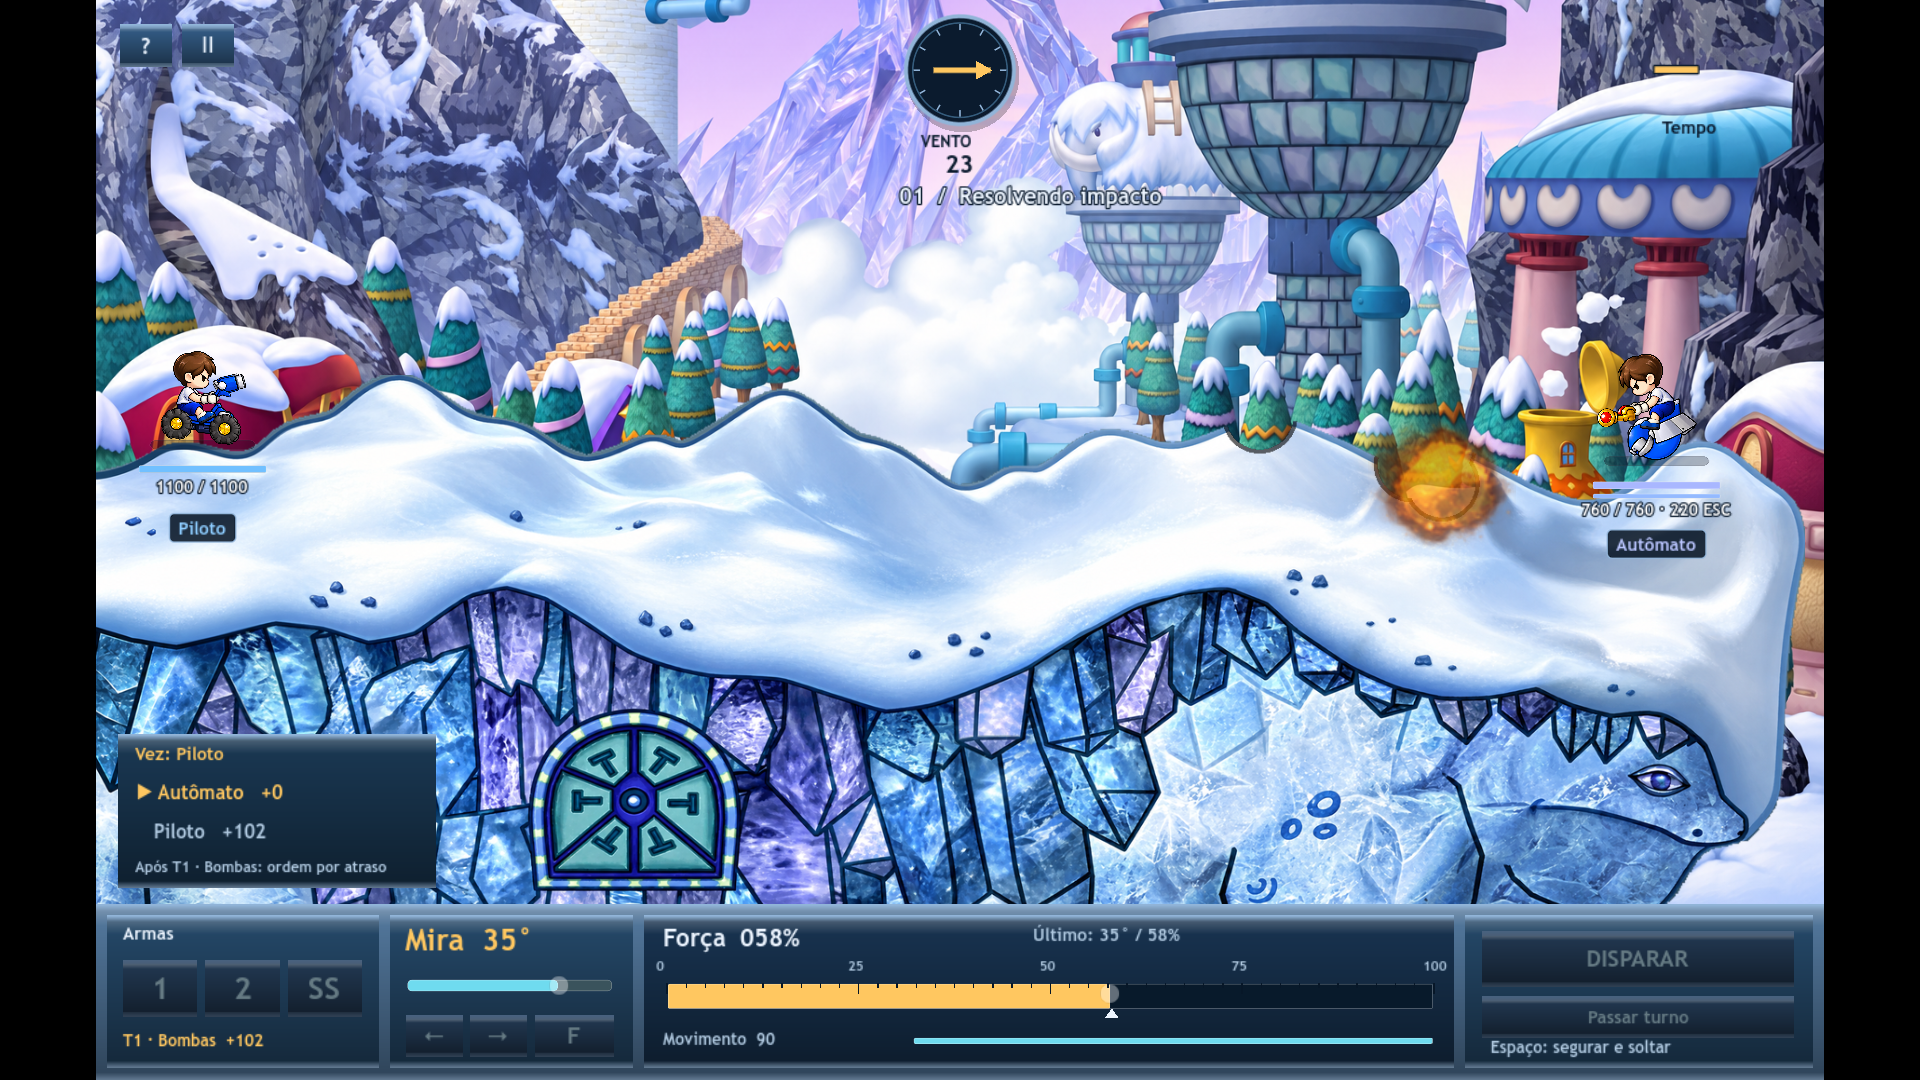
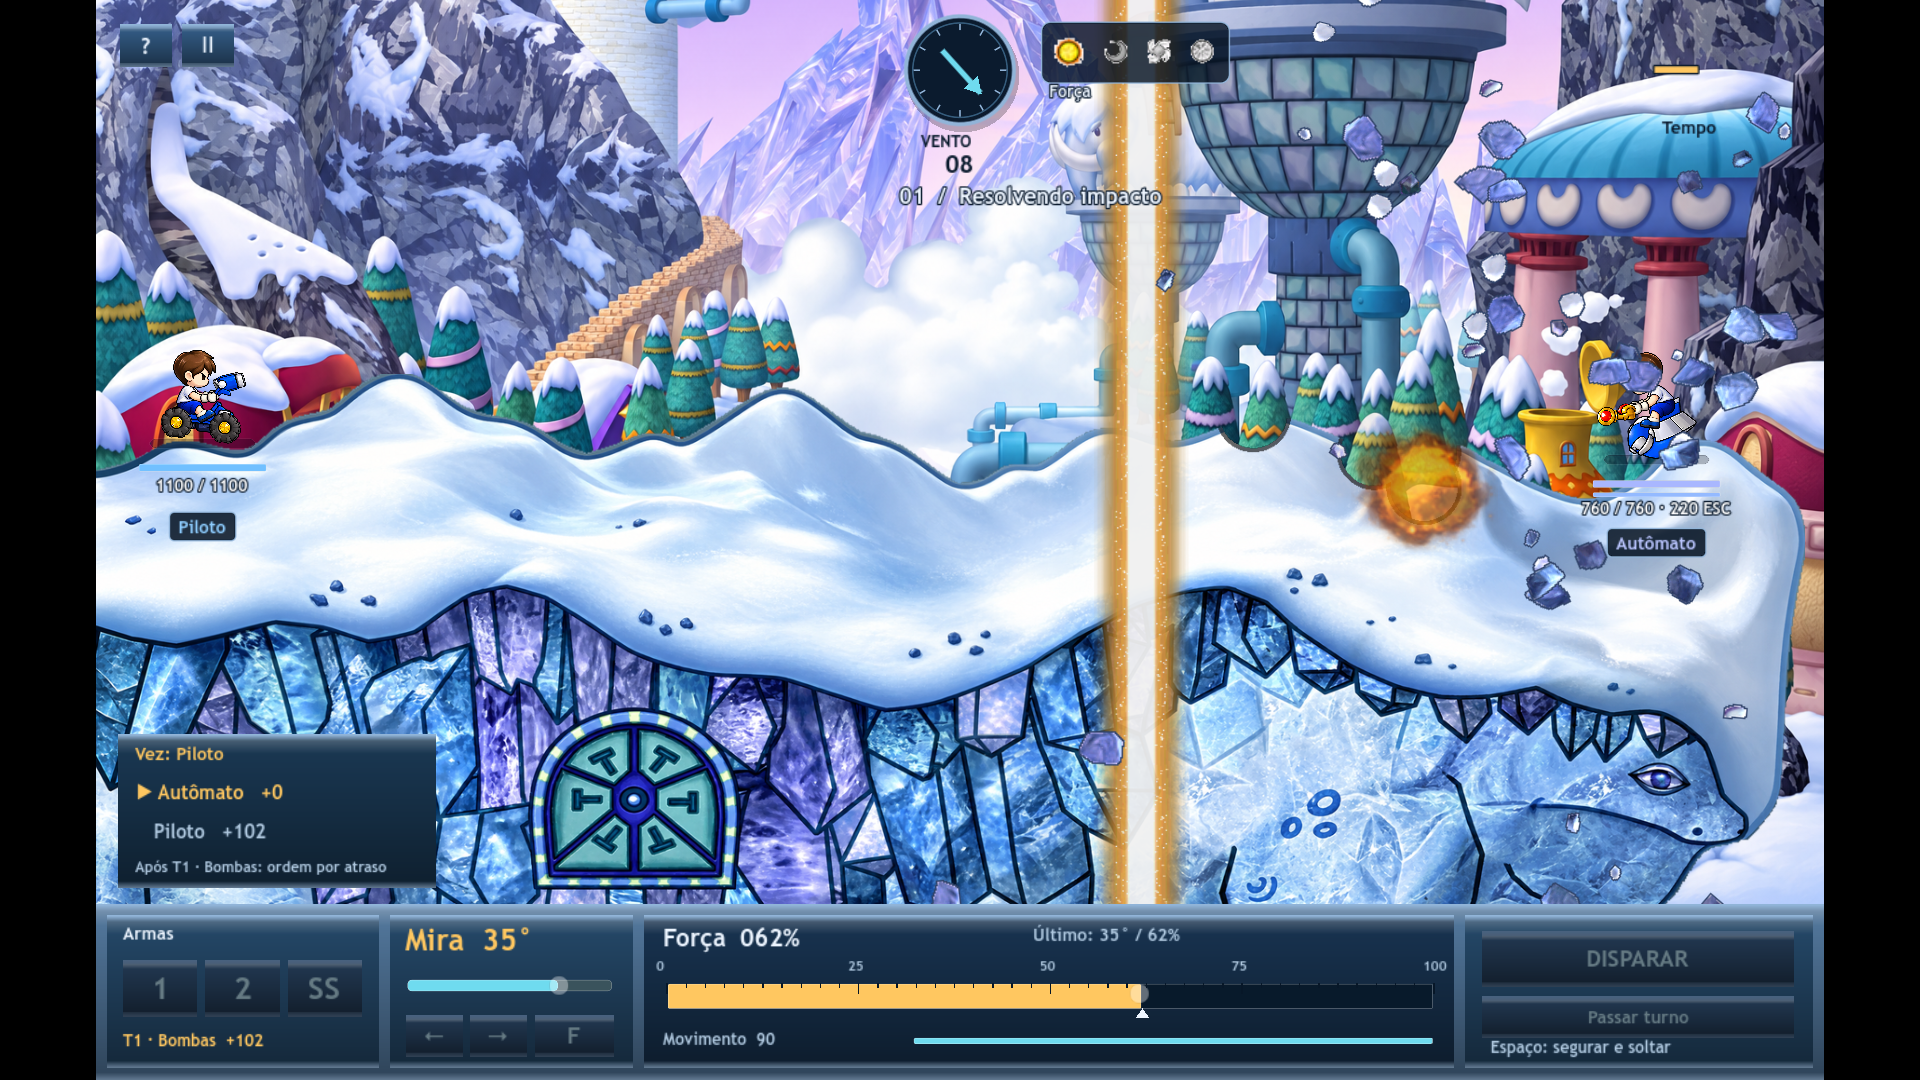
docs: 0.9.0 help, handoff and live docs for camera, wind, weather and Thor (phase E)
- Help screen explains map drag and weather; version 0.9.0
- HANDOFF/TASKS/DESIGN/README/AGENTS updated; captures refreshed
- 923 checks + 10 matches; app/ZIP re-exported, PCK validated with weather/Thor assets

diff --git a/docs/sdd/DESIGN.md b/docs/sdd/DESIGN.md
@@ -9,7 +9,9 @@
 | `scripts/battle_art.gd` | Estado visual separado, interpolação, rodas/canhão, recuo, dano, destruição, explosão e bússola |
 | `scripts/bigfoot_sprite.gd` | Atlas Bigfoot, FPS/ciclos, piloto e offsets por quadro, projéteis, nearest por CanvasTexture |
 | `scripts/terrain.gd` | Máscara sólida 640×400, células de 2 px, mapa original (alpha do foreground) ou procedural, visual HD, superfície, crateras e raycast DDA |
-| `scripts/maps.gd` | Catálogo de mapas OpenBound (Map.cs): spawns, clima, recorte e transformação para a arena fixa |
+| `scripts/maps.gd` | Catálogo de mapas OpenBound (Map.cs): spawns, clima, recorte HD e partícula, em coordenadas nativas |
+| `scripts/weather.gd` | Vento 2D, fila de clima, colunas, Thor e XP (modelo puro, copiado na previsão) |
+| `scripts/weather_art.gd` | Apresentação de colunas, Thor, feixes, ícones e partículas de chão |
 | `scripts/build_map_hd.py` | Costura blocos GPT Images do mapa, aplica a máscara original e grava manifest |
 | `scripts/combat.gd` | Parâmetros das armas, integração, colisão, dano e previsão de trajetória |
 | `scripts/match.gd` | Atores, RNG, projéteis, fases, movimento, disponibilidade, CPU e resultado |
@@ -235,3 +237,28 @@ pixels HD e escurece o anel `radius+3` por 0,4 (`Topography.CreateErosion`).
 metade, sorteados pelo `rng` da partida. `game.gd` desenha a janela do fundo
 (HD quando existir, senão `Background.png` original) e o `visual_texture` no
 `visual_rect`; grama e borda procedurais só no fallback. Câmera continua fixa.
+
+## Câmera, vento, clima e Thor 0.9
+
+Mundo nativo: `Terrain.load_map` dimensiona a grade pelo `ForegroundA` inteiro
+(1800×1800 → 900×900 células); `world_size`, `void_y/is_void`,
+`Combat.out_of_bounds` e o clamp de movimento derivam dele (procedural
+continua 640×400 / 1280×800). `first_solid_y` é calculado uma vez, como
+`FirstCollidableBlockY`. `carve` devolve as células removidas.
+
+`game.gd` mantém `camera` (canto superior esquerdo da vista 1280×670): segue
+mobile ativo → projétil lançado → impacto com fator `1/25` por quadro;
+arrastar (mouse/toque, `_unhandled_input`) liga `camera_manual` até o próximo
+`turn`/`fire`. O mundo é desenhado com `offset = tremor − camera`; barras e
+rótulos convertem para tela; setas na borda para mobiles fora da vista. O fundo
+usa uma janela 1,6:1 que desliza pela fração da câmera dentro da cobertura HD.
+
+`weather.gd` (modelo puro, copiável): pesos do preset, fila de 4, rodada = 2
+turnos, vento 2D (força/ângulo, perturbação, Wind), colunas com fusão/limpeza,
+Thor (posição, nível, XP). `match.gd`: cada projétil guarda `damage`,
+`inside`, `influenced`, `electric`, `thor`, `tornado`; `apply_weather_contact`
+roda antes de cada passo do laço comum; `tornado_step` substitui a balística
+enquanto ativo; `explode` → `blast` → Thor → raio elétrico. `predict_shot`
+sempre simula em cópias (máscara, atores, vento, clima). `weather_art.gd`
+apresenta colunas, satélite, feixes, ícones e partículas de chão, sem decidir
+combate; a pausa congela porque `_process` não avança.

diff --git a/docs/sdd/HANDOFF.md b/docs/sdd/HANDOFF.md
@@ -1,6 +1,44 @@
-# Hand-off — Gunbound Recomp 0.8.1
+# Hand-off — Gunbound Recomp 0.9.0
 
-## Entrega atual 0.8.1: fundo HD do Miramo Town
+## Entrega atual 0.9.0: câmera rolante, vento 2D, clima, Thor e partícula
+
+Pedido: implementar clima, Thor, partícula de chão, outros mapas e câmera
+rolante. Decisões do usuário: **sem outros mapas nem HD novo**, escala nativa
+1:1, vento 2D do original, commits locais por fase. REQ-22..26, ADR-044..047,
+plano WEATHER_CAMERA_0_9.md. Fases commitadas: A (mundo/câmera), C (vento,
+clima, Thor no modelo), D (visuais), E (docs/export).
+
+- Mundo = ForegroundA inteiro 1800×1800 (grade 900×900); spawns do Map.cs
+  nativos; limites derivam do tamanho do mundo. Câmera segue mobile/tiro/impacto
+  (1/25), arrasto com mouse/toque até o próximo turno ou disparo; parallax do
+  fundo dentro da cobertura HD; setas na borda para mobiles fora da vista.
+- Vento 2D (0–35, 0–360, perturbação ±2/±3 por rodada, Wind re-sorteia;
+  adaptação: sorteio de Wind na largada). Fator 1,3 px/s² por ponto.
+- Clima (weather.gd): pesos do Miramo A, fila de 4, rodada = 2 turnos, colunas
+  com fusão/limpeza; Força ×1,2+10, Fraqueza ÷1,2−10, Espelho inverte vx
+  ×1,1+5, Elétrico (raio vertical, cratera 10, choque 30), Tornado (3 etapas e
+  relançamento), Aleatório (ativa uma vez), Proteção +35, Ignorância sem efeito.
+- Thor: satélite em x10–90%/y10–70%, raio do satélite ao impacto (25,
+  40+20·nível), XP pelo dano, tabela 800…3000; desativa com outro clima.
+- Tudo no laço de voo comum; `predict_shot` sempre simula em cópias (CPU
+  120–290 ms por decisão, antes 70–270).
+- Apresentação (weather_art.gd) com sprites/sons originais: colunas rolando,
+  satélite com LV/XP, feixes Thor/elétrico, ícones da previsão, marcas nos tiros,
+  partículas de chão do Particle.png (pixels removidos ÷ 32); pausa congela.
+- Fixtures: vento migrado para Vector2 (−30 → −35 pela troca de fator);
+  fixtures com literal 640 pedem o terreno procedural.
+
+Validação: `./scripts/check.sh` — **923 checks + 10 partidas, zero falhas**
+(test_weather 58, test_map 40). Seeds81–90: 56/12/13/15/19/10/8/12/9/15 tiros.
+Capturas GPU 1920×1080 em docs/map e docs/weather (colunas, Thor/raio,
+partículas; pausa congela confirmada). App/ZIP 0.9.0 reexportados, assinatura
+válida; PCK isolado carrega mapa nativo, clima e assets de clima/Thor.
+Limites: choque elétrico aproximado pela distância ao segmento; arte de
+clima/Thor em baixa resolução original; sem teste manual de input/áudio no app.
+
+Próximo passo: usuário validar câmera, clima e Thor no aplicativo.
+
+## Entrega anterior 0.8.1: fundo HD do Miramo Town
 
 Após o reset do limite do Codex, gerado o 2º bloco do fundo (exec-ad42a28a).
 `build_map_hd.py` costurou `background.png` 1920×1536 (1,48× o original);

diff --git a/README.md b/README.md
@@ -96,7 +96,7 @@ Multiplayer online, salas privadas, busca automática, ranking, reconexão e 2×
 
 ## Limitações conhecidas
 
-Um mapa original do OpenBound (Miramo Town A, terreno HD via GPT Images e colisão pelo alpha original) e dois veículos; sem campanha, contas, ranking ou multiplayer. A IA calcula o disparo, mas não desloca seu veículo. O terreno tem resolução de colisão de dois pixels e fragmentos flutuantes permanecem no lugar; somente os veículos caem. Bigfoot e Mage usam peças HD constantes articuladas, animação contínua e piloto preso ao assento; os atlas originais ficam disponíveis como fallback. Câmera fixa e balanceamento provisório. A pesquisa dos vídeos/OpenBound está em [docs/sdd/GUNBOUND_REFERENCES.md](docs/sdd/GUNBOUND_REFERENCES.md); sprites originais Bigfoot/Mage e piloto foram incorporados, com proveniência em `assets/openbound/ATTRIBUTION.md`; demais mobiles e regras completas Gunbound continuam pendentes.
+Um mapa original do OpenBound (Miramo Town A em escala nativa com câmera rolante, terreno HD via GPT Images e colisão pelo alpha original), vento 2D, clima (Força, Fraqueza, Espelho, Tornado, Elétrico, Aleatório, Proteção), satélite Thor, partículas de chão e dois veículos; sem campanha, contas, ranking ou multiplayer. A IA calcula o disparo, mas não desloca seu veículo. O terreno tem resolução de colisão de dois pixels e fragmentos flutuantes permanecem no lugar; somente os veículos caem. Bigfoot e Mage usam peças HD constantes articuladas, animação contínua e piloto preso ao assento; os atlas originais ficam disponíveis como fallback. Balanceamento provisório. A pesquisa dos vídeos/OpenBound está em [docs/sdd/GUNBOUND_REFERENCES.md](docs/sdd/GUNBOUND_REFERENCES.md); sprites originais Bigfoot/Mage e piloto foram incorporados, com proveniência em `assets/openbound/ATTRIBUTION.md`; demais mobiles e regras completas Gunbound continuam pendentes.
 
 ## Assets HD 0.6
 

diff --git a/docs/sdd/TASKS.md b/docs/sdd/TASKS.md
@@ -1,5 +1,16 @@
 # Entregas e próximos trabalhos
 
+## Câmera, vento, clima e Thor 0.9.0
+
+- [x] Levantar Camera/Weather/Thor/ParticleBuilder no C#; usuário decidiu escopo
+      (sem outros mapas/HD, escala nativa, vento 2D, commits por fase).
+- [x] Fase A: mundo nativo 1800×1800, câmera com seguimento/arrasto, parallax, setas.
+- [x] Fase C: vento 2D, fila/colunas/efeitos de clima, Thor e raio elétrico no laço comum.
+- [x] Fase D: colunas, satélite, feixes, ícones e partículas com sprites originais.
+- [x] 923+ checks e 10 partidas; capturas GPU docs/map e docs/weather; app/PCK.
+- [ ] Usuário validar câmera, clima e Thor no aplicativo.
+- [ ] Fora do escopo por decisão: outros mapas, HD de clima/Thor, itens (Ignorance).
+
 ## Mapa Miramo Town0.8.0/0.8.1
 
 - [x] Levantar mapas/dados no C# (Map.cs, Topography, LevelScene, RoomMetadata).
@@ -10,7 +21,7 @@
 - [x] 856 checks + 10 partidas no mapa; capturas GPU em docs/map; app/PCK validados.
 - [x] Fundo HD 1920×1536 concluído em 0.8.1 (2º bloco após reset do limite); emenda inspecionada.
 - [x] Usuário validou o mapa; commit/tag local v0.8.0.
-- [ ] Pendentes: clima/Thor do preset, partícula de chão, outros mapas, câmera rolante.
+- [x] Clima/Thor, partícula e câmera entregues em 0.9.0; outros mapas descartados pelo usuário.
 
 ## Identidade e harness0.7.0
 

diff --git a/AGENTS.md b/AGENTS.md
@@ -134,3 +134,15 @@ fixtures (`start(..., "")`). Blocos GPT brutos em assets/hd/maps/*/source
 (.gdignore); rodar scripts/build_map_hd.py ao trocar blocos. Codex CLI gera
 imagens com `-m gpt-5.6-sol` (modelo padrão do config é recusado). Teste
 test_map.gd; captura capture_map.gd em docs/map. Clima/outros mapas pendentes.
+
+## Câmera, clima e Thor 0.9 — estado atual
+
+Ler WEATHER_CAMERA_0_9.md. Mundo do mapa é nativo 1:1 (1800×1800, grade
+900×900); ADR-044 substitui a arena fixa/escala de 0.8. Câmera em game.gd
+(seguimento 1/25, arrasto). Vento 2D e clima/Thor ficam em weather.gd e no laço
+comum de match.gd; previsão da CPU sempre simula em cópias. Wind fixtures usam
+Vector2; fixtures com literal 640 pedem `start(..., "")`. Arte/sons originais
+em assets/openbound/weather e thor. Usuário decidiu: sem outros mapas nem HD
+novo. Testes test_weather.gd/test_map.gd; capturas capture_weather.gd e
+capture_map.gd (docs/weather, docs/map).
+
